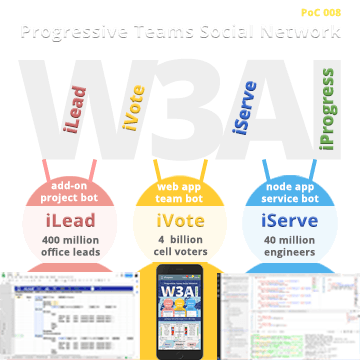
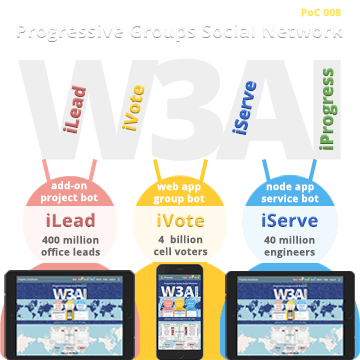
added iPad bots and Groups title

diff --git a/src/app/welcome/welcome.component.html b/src/app/welcome/welcome.component.html
@@ -31,7 +31,7 @@
 
     <img class="slides" src="/assets/img/3ai-ppt.png" alt="Progressive Teams Operating System">
     
-      <h6 class="web-show-meetups">Join Progress Teams @ W3AI Meetups: <a class="web-show" href="https://www.meetup.com/SocialAI/">Toronto</a>
+      <h6 class="web-show-meetups">Join Progress Groups @ W3AI Meetups: <a class="web-show" href="https://www.meetup.com/SocialAI/">Toronto</a>
         - <a class="web-show" href="https://www.meetup.com/Manhattan-AIR/">NYC</a> - <a class="web-show" href="https://www.meetup.com/HalifaxAIG/">Halifax</a></h6>
 
       <!--
